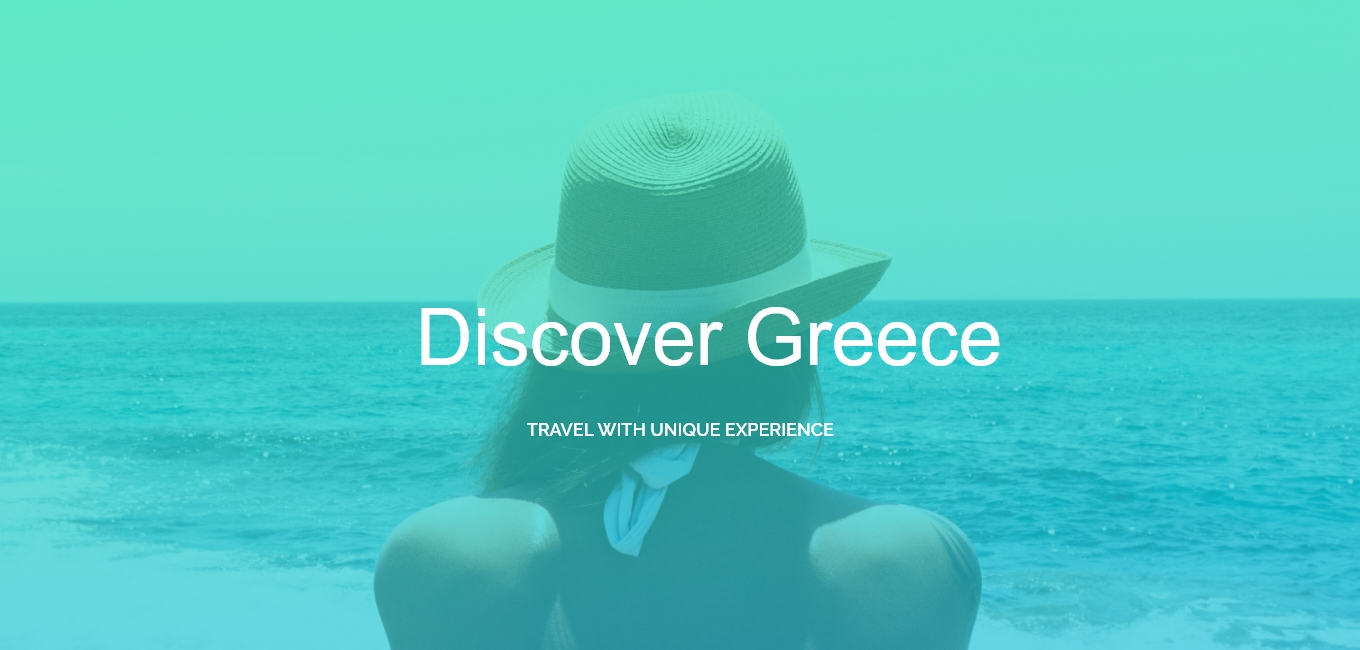
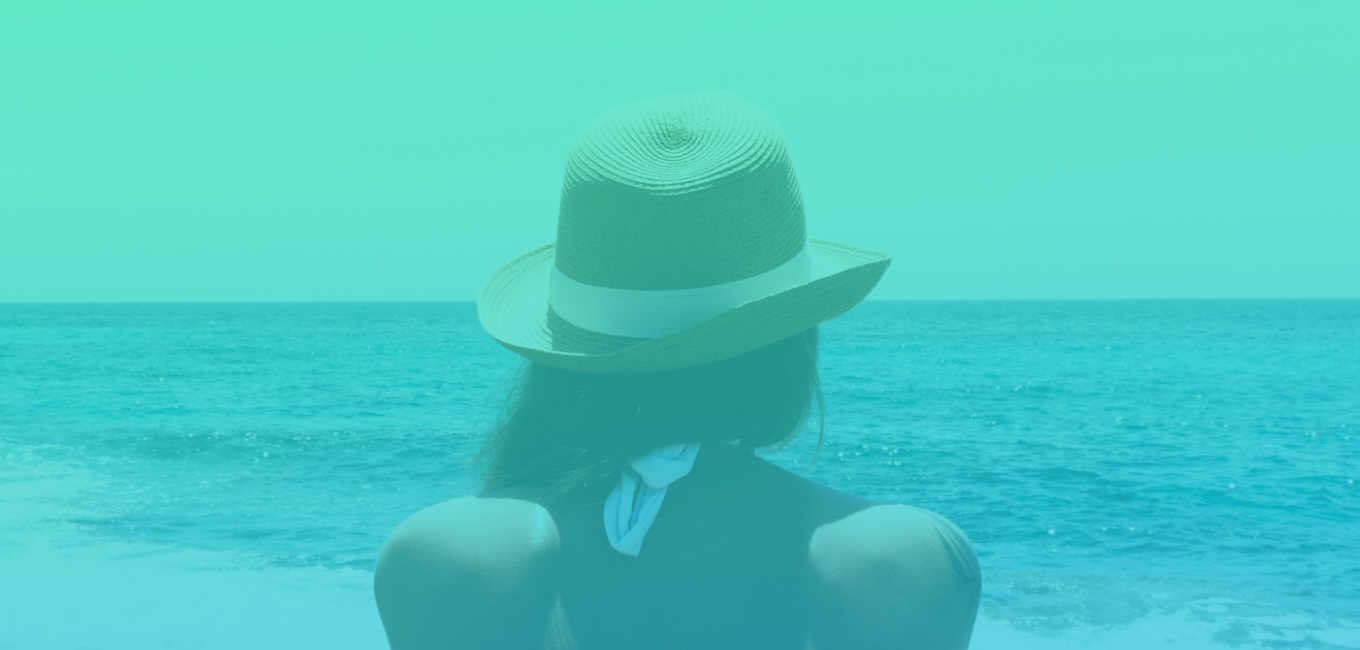
update website

Changed region(s): [[0.3088, 0.4615, 0.7412, 0.5846], [0.3706, 0.6462, 0.6176, 0.6769]]

diff --git a/index.html b/index.html
@@ -5,11 +5,54 @@
 	<meta name="viewport" content="width=device-width, initial-scale=1">
 	<link rel="stylesheet" href="css/reset.css">
 	<link rel="stylesheet" href="css/style.css">
-	<link rel="stylesheet" href="fonts/fonts.css">
+	<link rel="stylesheet" href="css/fonts.css">
 	<link rel="icon" type="text/css" href="images/logo.svg">
 	<title>home page</title>
 </head>
+<!-- Header -->
 <body>
-
+	<header>
+		<div class="header">
+			<div class="logo">
+				<a href="index.html"><img src="images/logo.svg" alt="Logo"></a>
+				<div class="navigation">
+					<nav>
+						<ul>
+							<li class="list"><a class="links" href="index.html">home</a></li>
+							<li class="list"><a class="links" href="#">about us</a></li>
+							<li class="list"><a class="links" href="#"> our services</a></li>
+							<li class="list"><a class="links" href="#">tour package</a></li>
+						</ul>
+					</nav>
+				</div>
+			</div>
+		</div>
+	</header>
+	<!-- Banner Section -->
+	<section>
+		<div class="banner-padding">
+			<img class="banner" src="images/banner.jpg" alt="Woman on the beach">
+			<div class="banner-text">
+				<h2>discover greece</h2>
+			</div>
+			<div class="span-position">
+				<span class="banner-span">travel with unique experience</span>
+			</div>
+		</div>
+	</section>
+	<!-- Lower Section -->
+	<section class="lower-section">
+		<div class="separate-box"> 
+			<span>discover</span>
+			<h3>our hot services</h3>
+			<p class="separate-paragraph">Lorem Ipsum is simply dummy text of the printing and typesetting industry. Lorem Ipsum has been the industry's standard</p>
+		</div>
+		<div class="airplane">
+			<img src="images/airplane.jpg">
+			<div class="absolute-header">
+				<h4>flight booking</h4>
+			</div>
+		</div>
+	</section>
 </body>
 </html>

diff --git a/css/style.css b/css/style.css
@@ -1,0 +1,105 @@
+h2{
+	font-family: 'Raleway';
+	font-size: 78.74px;
+	font-weight: 600;
+	color: #FFFFFF;
+	text-transform: capitalize;
+}
+h3{
+	font-family: 'Raleway';
+	font-size: 26px;
+	font-weight: 600;
+	color: #1A1A1B;
+	text-transform: capitalize;
+	padding-top: 25.6px;
+}
+h4{
+	font-family: 'Raleway';
+	font-size: 18px;
+	font-weight: 600;
+	color: #1A1A1B;
+	text-transform: uppercase;
+}
+span{
+	font-family: 'Raleway';
+	font-size: 16px;
+	font-weight: 600;
+	color: #8D8D8D;
+	text-transform: uppercase;
+	height: 19px;
+}
+p{
+	font-family: 'Raleway';
+	font-size: 16px;
+	color: #8D8D8D;
+	text-transform: capitalize;
+}
+/*Header*/
+.header{
+	padding: 25px 0px 0px 95px;
+}
+.logo{
+	display: inline-block;
+	vertical-align: middle;
+}
+.navigation{
+	display: inline-block;
+	vertical-align: middle;
+	margin-left: 88.9px;
+}
+.list{
+	display: inline-block;
+	vertical-align: middle;
+	margin-right: 49px;
+}
+.links{
+	font-size: 15.74px;
+	font-family: 'Raleway';
+	color: #303134;
+	font-weight: 600;
+	text-transform: capitalize;
+}
+/*Banner*/
+.banner-padding{
+	padding: 25px 0px 75.8px 0px;
+	position: relative;
+}
+.banner-text{
+	position: absolute;
+	top: 294.2px;
+	left: 415.8px;
+}
+.banner{
+	width: 100%;
+}
+.banner-span{
+	font-family: 'Raleway';
+	font-size: 18px;
+	font-weight: 600;
+	color: #FFFFFF;
+	text-transform: uppercase;
+}
+.span-position{
+	position: absolute;
+	top: 418.6px;
+	left: 526.8px;
+}
+/*Lower Section*/
+.lower-section{
+	height: 668px;
+	width: 1176px;
+	margin: 0 auto;
+}
+.separate-paragraph{
+	width: 234px;
+	margin-top: 40.1px;
+}
+.airplane{
+	position: relative;
+	width: 269px;
+}
+.absolute-header{
+	position: absolute;
+	top: 28.4px;
+	left: 59.5px;
+}
